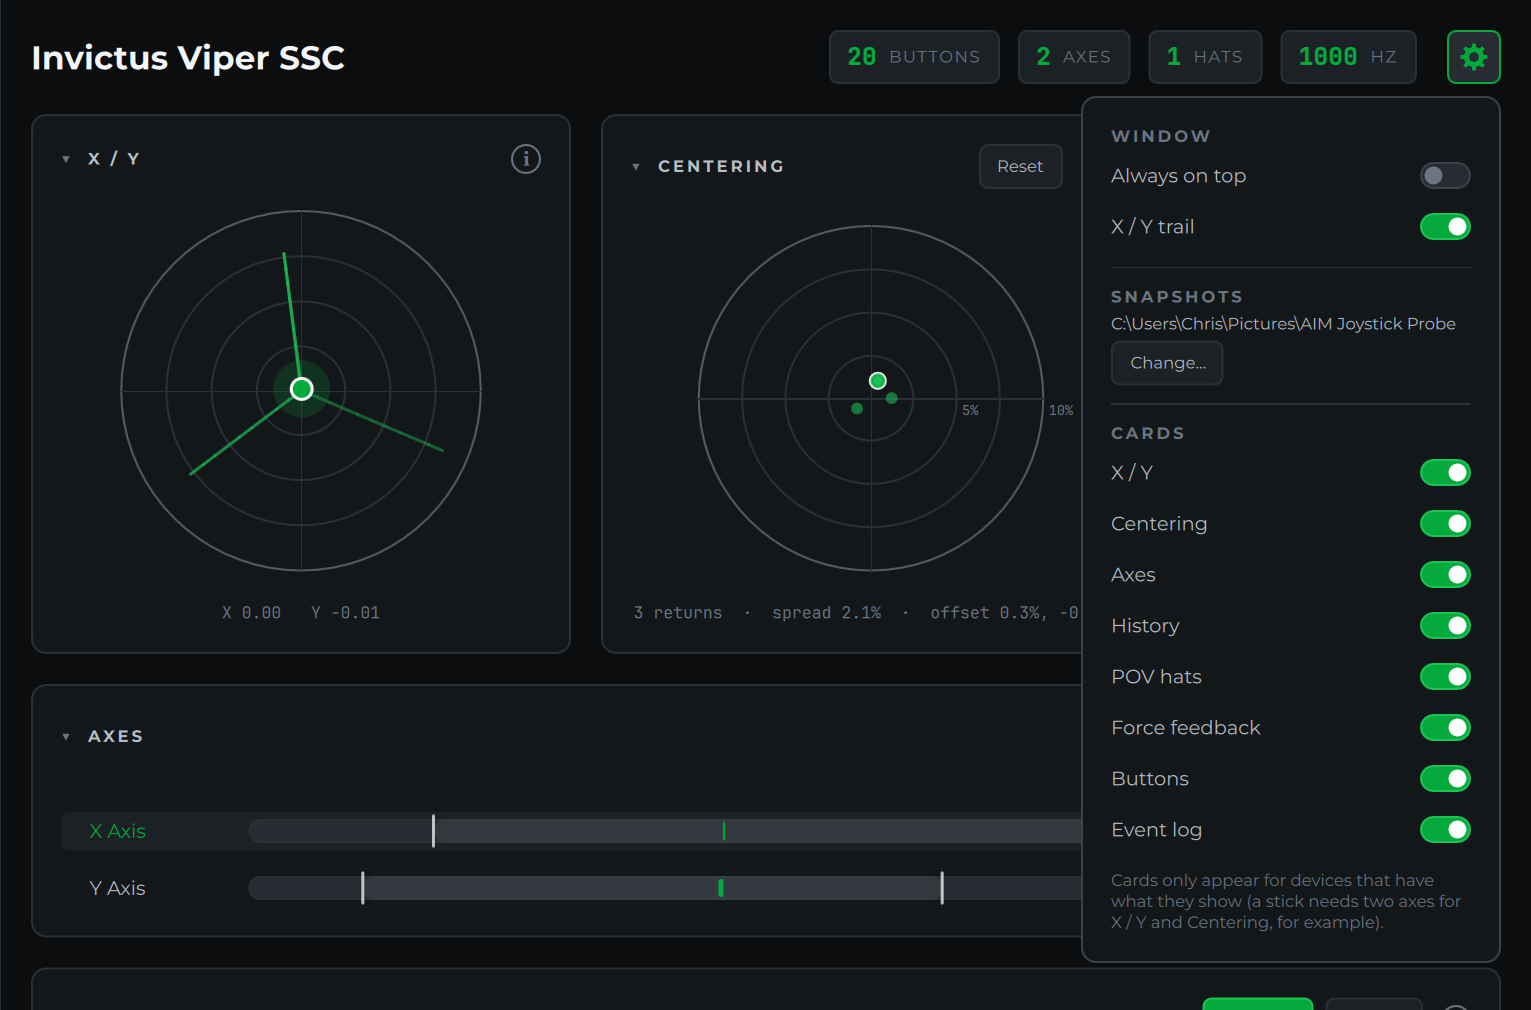
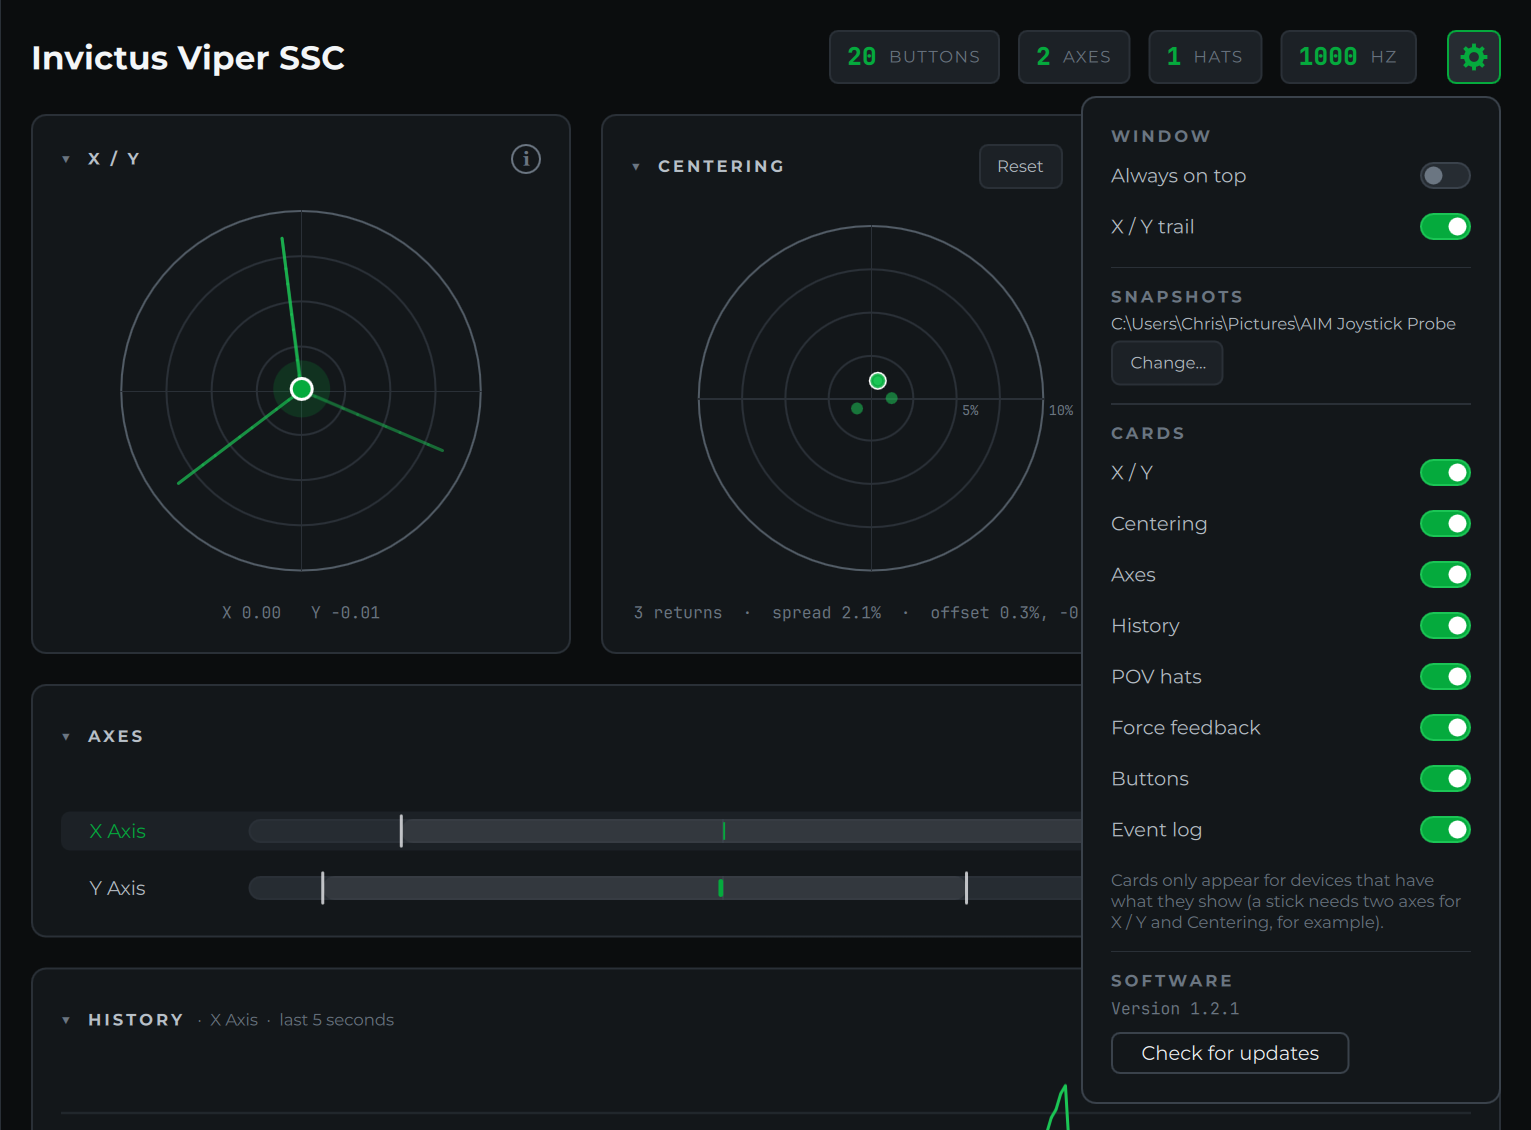
Joystick Probe: in-app update download (matches the Livery Manager), Software section in settings

diff --git a/docs/joystick-probe/user-guide/updates.md b/docs/joystick-probe/user-guide/updates.md
@@ -5,8 +5,26 @@ available, a banner appears across the top of the window:
 
 ![Update banner](images/update-banner.png)
 
-- Click **Download** to open the release page in your browser.
-- Click **✕** to dismiss the banner for the current session.
+> **AIM Joystick Probe X.Y.Z is available. You are running A.B.C.**
+
+- **Download** downloads the installer inside the app. The banner shows the
+  progress: **Downloading update X.Y.Z (45%)**.
+- When the download finishes, the banner reads **AIM Joystick Probe X.Y.Z is
+  ready to install** and the button changes to **Run installer**. Click it and
+  follow the prompts. The installer closes the Probe before replacing files.
+- **View release notes** opens the release page in your browser.
+
+The banner stays until you update.
+
+## Check for updates manually
+
+Open **Settings** (the gear at the top right). Under **Software** you'll see your
+version. Click **Check for updates**: it shows **up to date**, or the new
+version with the banner at the top of the window.
 
 If you're offline, already on the latest version, or there are no releases yet,
-no banner appears. The check fails quietly and never interrupts you.
+no banner appears. The check never interrupts you.
+
+> [!NOTE]
+> In-app downloads arrived in 1.3.0. Updating from 1.2.1 or older, the banner's
+> **Download** opens the release page in your browser instead.

diff --git a/docs/joystick-probe/user-guide/settings-snapshots-and-diagnostics.md b/docs/joystick-probe/user-guide/settings-snapshots-and-diagnostics.md
@@ -18,6 +18,8 @@ Everything in it is remembered between launches.
   hats, Force feedback, Buttons and Event log. A card you've turned on still
   only appears when the device has what it shows; a stick needs at least two
   axes for X / Y and Centering, for example.
+- **Software** shows your version. **Check for updates** looks for a newer
+  release; see [Updates](updates.md).
 
 ## Collapsing cards
 
